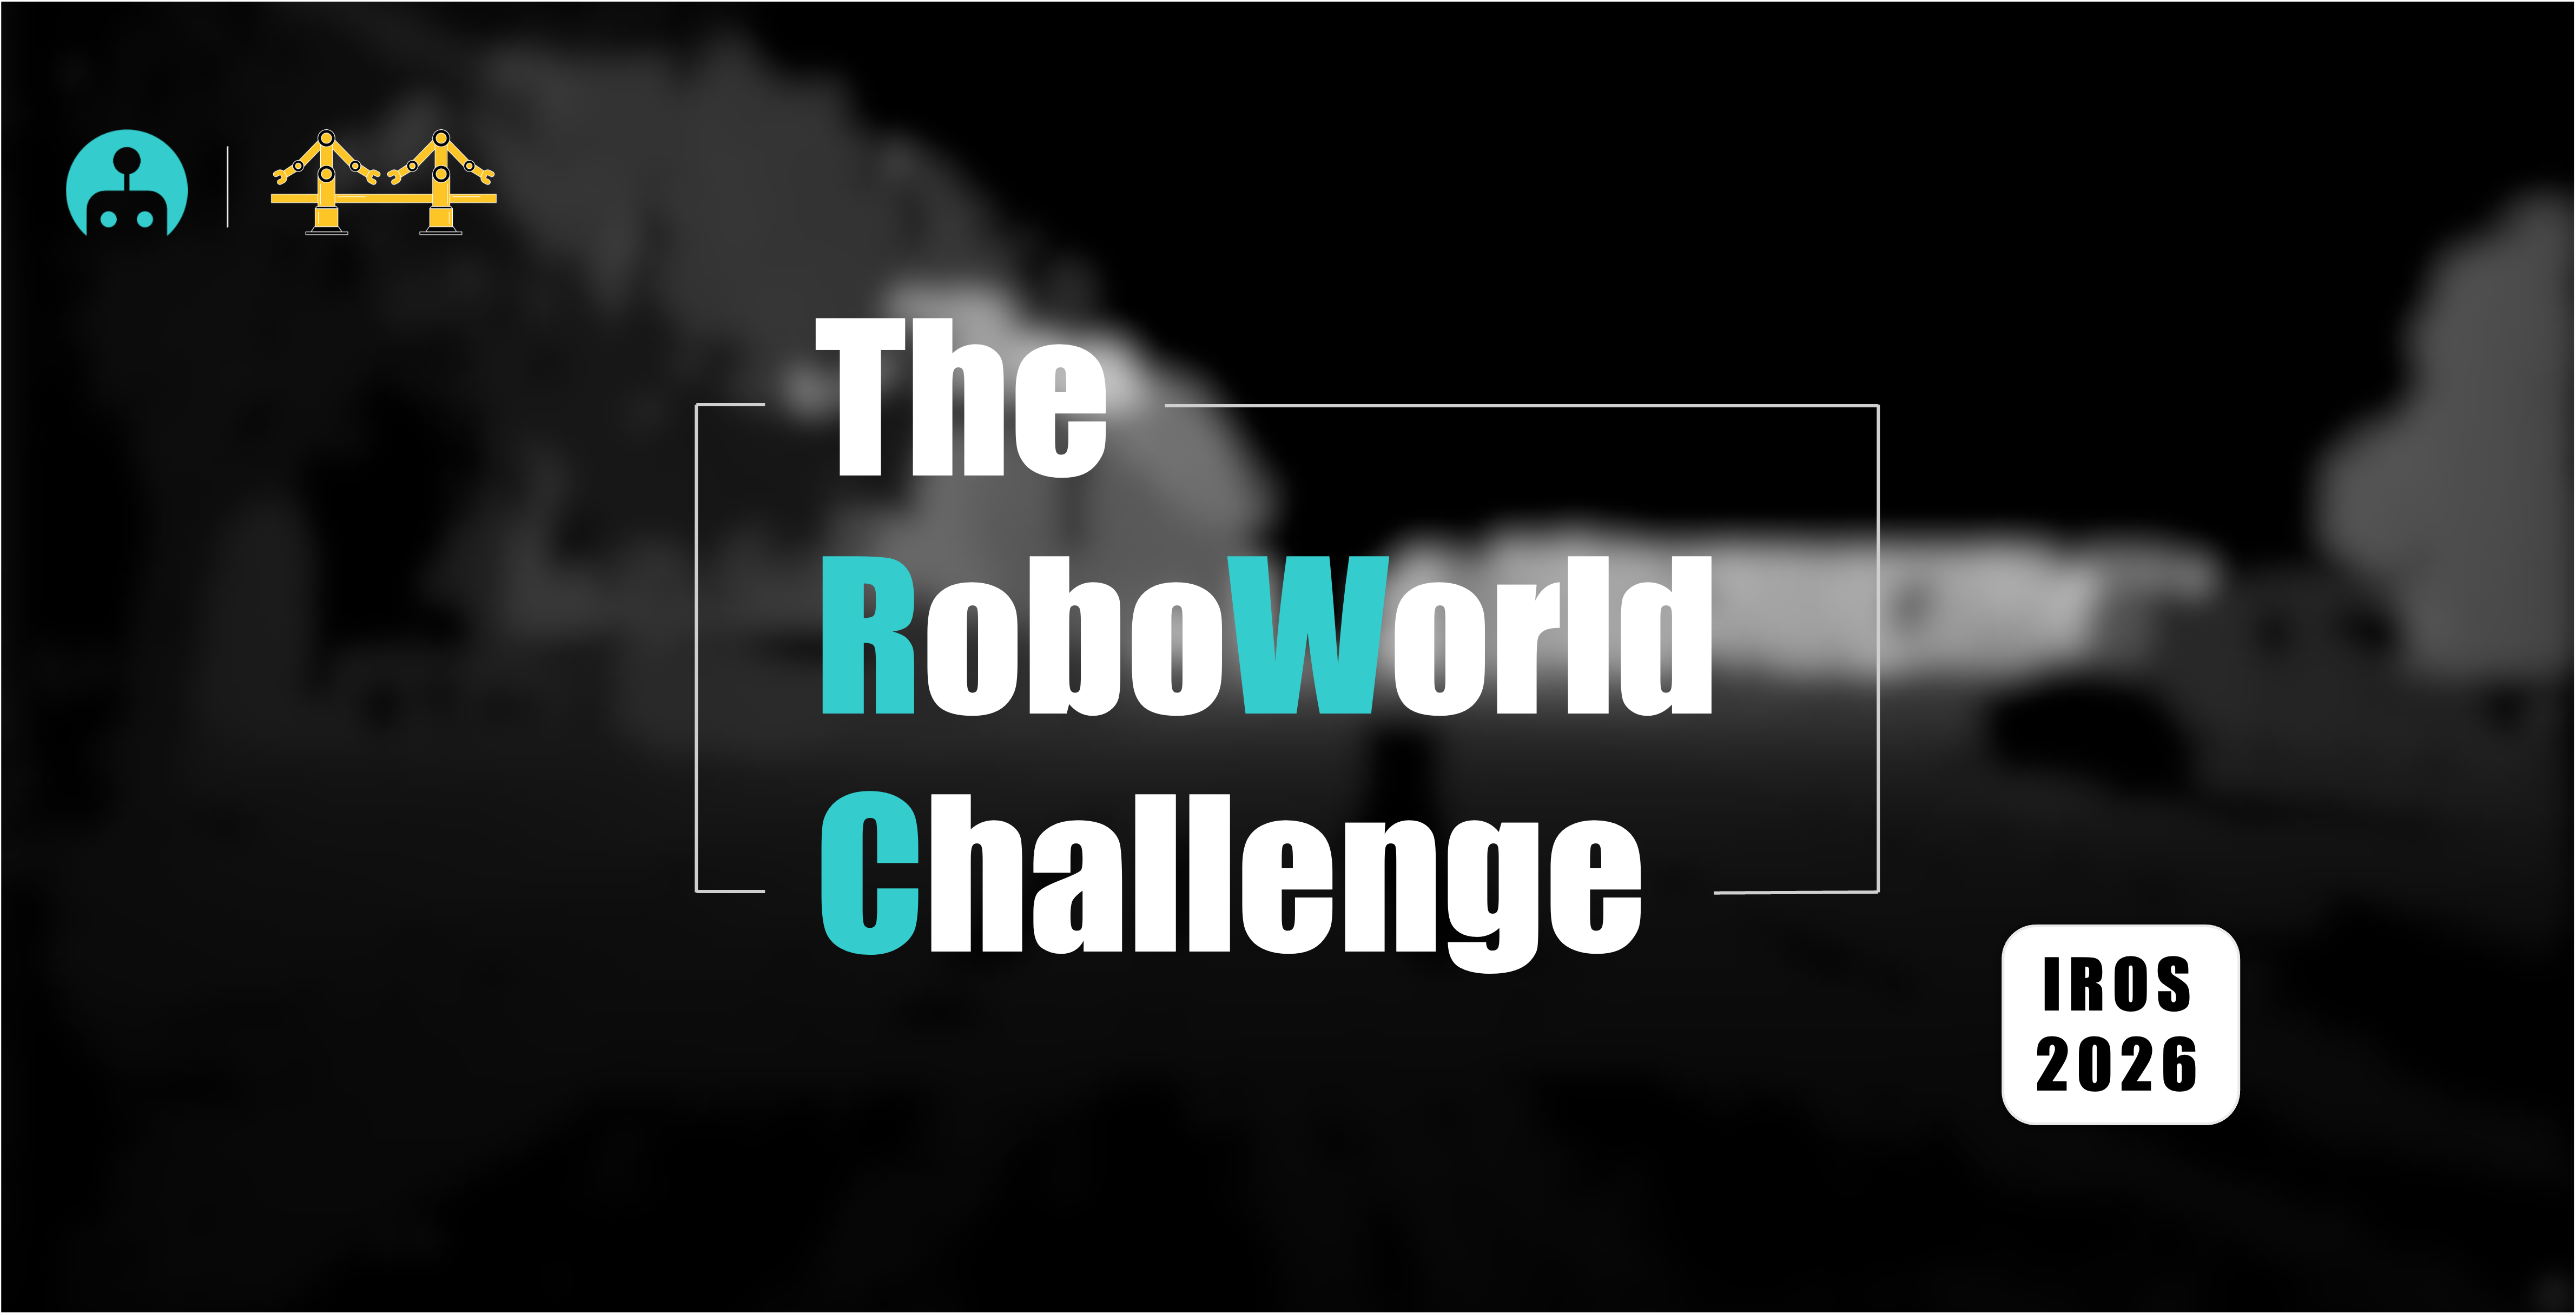
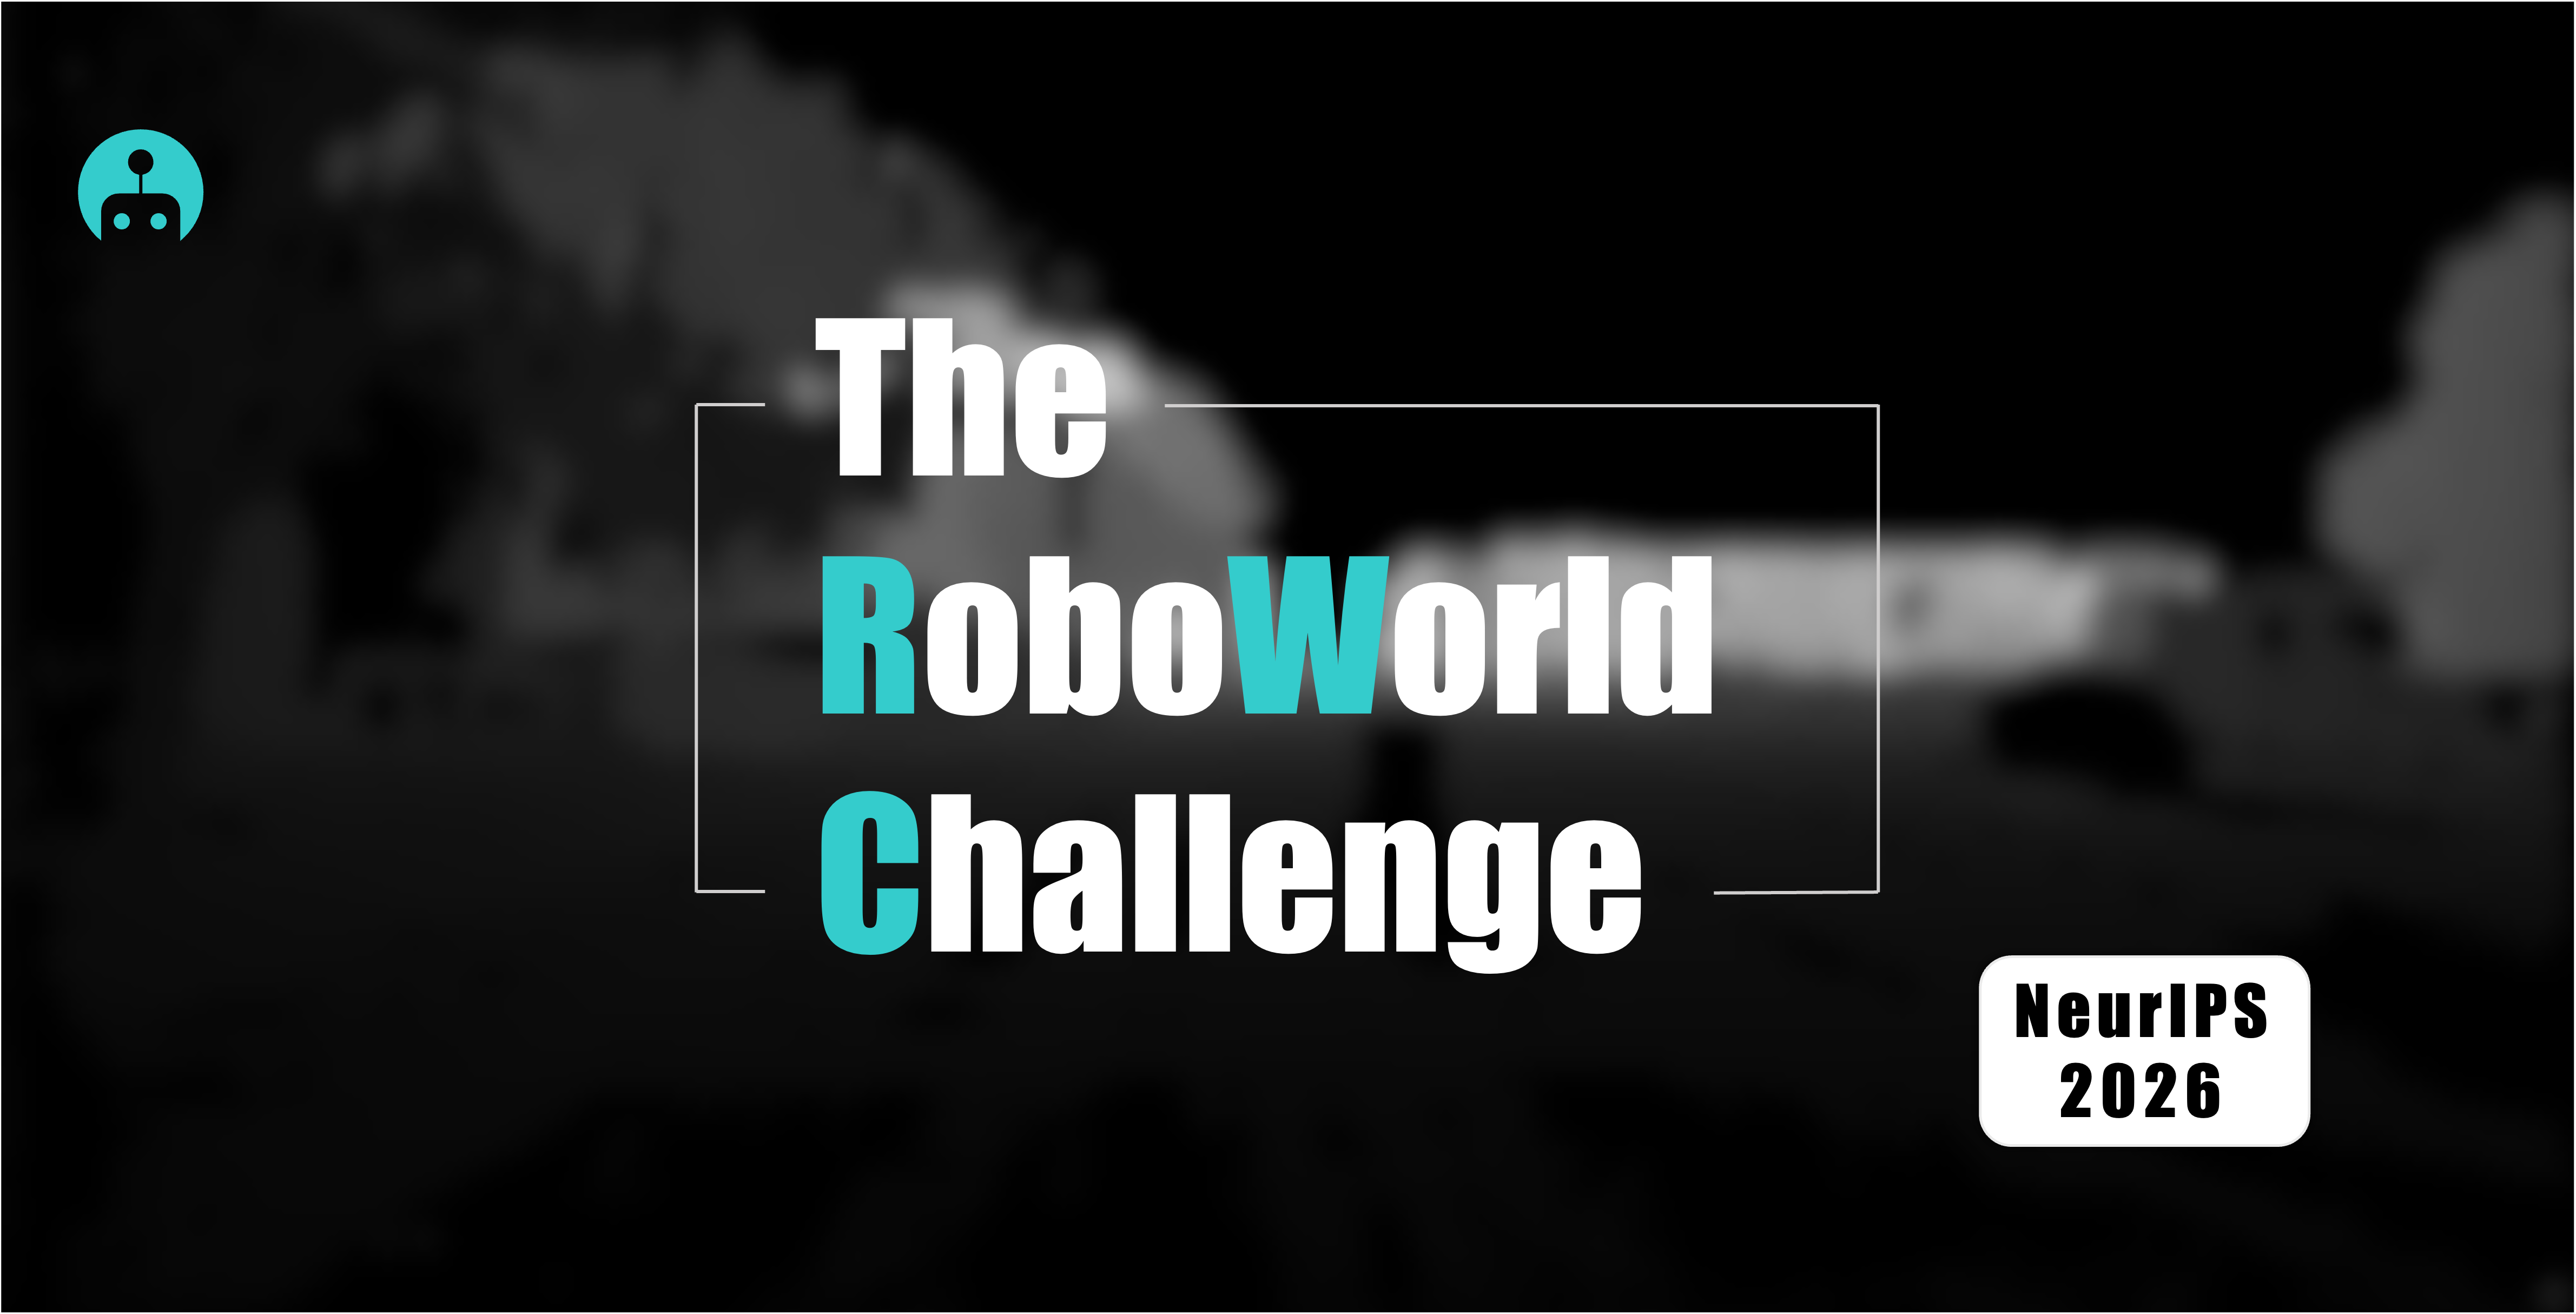
Update website to NeurIPS 2026 affiliation, timeline, and awards

Changed region(s): [[0.7459, 0.6793, 0.9013, 0.8954], [0.0, 0.0926, 0.1865, 0.1853]]

diff --git a/index.html b/index.html
@@ -335,28 +335,17 @@
             <h1 class="text-white" id="venue">Venue</h1>
             <hr/>
 
-            <!-- <img1>
-                <div style="text-align: center;">
-                    <img src="icra2024.png" class="img-fluid" alt="img-responsive" width="20%">
-                </div>
-            </img1> -->
-
-            <p>
-                <img src="iros2026.png" align="right" width="24%" hspace="22" vspace="5">
-            </p>
-
-
             <p class="text-white-50">
-                The RoboWorld Challenge is affiliated with the 2026 IEEE/RSJ International Conference on Intelligent Robots and Systems (IROS 2026).
+                The RoboWorld Challenge is affiliated with the <strong>Thirty-Ninth Annual Conference on Neural Information Processing Systems (NeurIPS 2026)</strong>.
             </p>
 
             <p class="text-white-50">
-                IROS is IEEE Robotics and Automation Society's flagship conference. IROS 2026 will be held from September 27th to October 1st, 2026, in Pittsburgh, PA, USA.
+                NeurIPS is one of the premier conferences in machine learning and artificial intelligence. NeurIPS 2026 will be held in December 2026.
             </p>
 
             <p class="text-white-50">
-                The IROS competitions provide a unique venue for state-of-the-art technical demonstrations from research labs throughout academia and industry.
-                For additional details, kindly refer to the IROS 2026 <a href="https://2026.ieee-iros.org/" target="_blank" style="color: #ffc000;">website</a>.
+                The NeurIPS Competition Track provides a unique venue for benchmark-driven research challenges that advance the state of the art in machine learning, bringing together participants from academia and industry worldwide.
+                For additional details, kindly refer to the NeurIPS 2026 <a href="https://neurips.cc/" target="_blank" style="color: #ffc000;">website</a>.
             </p>
 
 
@@ -439,32 +428,33 @@
 
             <div id="timeline-content">
                 <ul class="timeline">
-                    <li class="event" data-date="&nbsp;&nbsp;&nbsp;Registration">
-                        <h3>Team Up</h3>
+                    <li class="event" data-date="&nbsp;&nbsp;&nbsp;Jul 2026">
+                        <h3>Registration Opens</h3>
                         <p>Register for your team by filling in <a href="https://docs.google.com/forms/d/e/1FAIpQLSdwfvk-NHdQh9-REiBLCjHMcyLT-sPCOCzJU-ux5jbcZLTkBg/viewform?usp=sharing&ouid=111184461807593368933" target="_blank" style="color: #ffc000;">this</a> Google Form.&nbsp;</p>
                     </li>
-                    <li class="event" data-date="May 25, 2026">
-                        <h3>Release of Training and Evaluation Data</h3>
-                        <p>Download the data from the competition toolkit.&nbsp;</p>
+                    <li class="event" data-date="Aug 2026">
+                        <h3>Release of Training Data and Baselines</h3>
+                        <p>Download the data from the competition toolkit. Baseline code and weights released on GitHub.&nbsp;</p>
                     </li>
-                    <li class="event" data-date="June 01, 2026">
+                    <li class="event" data-date="Sep 2026">
                         <h3>Competition Servers Online @ CodaBench</h3>
+                        <p>Public leaderboards live for all five tracks.&nbsp;</p>
                     </li>
-                    <li class="event" id="date" data-date="July 31, 2026">
+                    <li class="event" id="date" data-date="Oct 31, 2026">
                         <h3>Phase One Deadline</h3>
                         <p></p>
                         <p>Shortlisted teams are invited to participate in the next phase.&nbsp;</p>
                     </li>
-                    <li class="event" id="date" data-date="Aug 31, 2026">
+                    <li class="event" id="date" data-date="Nov 20, 2026">
                         <h3>Phase Two Deadline</h3>
                         <p></p>
                         <p>Don't forget to include the code link in your submissions.&nbsp;</p>
                     </li>
-                    <li class="event" data-date="Sep 27, 2026">
+                    <li class="event" data-date="Dec 2026">
 
                         <h3>Award Decision Announcement</h3>
                         <p></p>
-                        <p>Associated with the IROS 2026 conference formality.&nbsp;</p>
+                        <p>Associated with the NeurIPS 2026 Competition Track Workshop.&nbsp;</p>
                     </li>
                 </ul>
             </div>
@@ -482,12 +472,12 @@
                             <h4 class="my-0 fw-normal text-black">1st Place</h4>
                         </div>
                         <div class="card-body bg-black">
-                            <h3>Cash $ 5000 + Certificate</h3>
+                            <h3>Cash $ 7,500 + Certificate</h3>
                             <ul class="list-unstyled mt-3 mb-4">
-                                <li>This award will be given to five awardees; an amount of $ 1000 will be given to each track.</li>
+                                <li>This award will be given to five awardees; an amount of $ 1,500 will be given to each track.</li>
                             </ul>
                         </div>
-                        
+
                     </div>
                 </div>
                 <div class="col">
@@ -496,9 +486,9 @@
                             <h4 class="my-0 fw-normal text-black">2nd Place</h4>
                         </div>
                         <div class="card-body bg-black">
-                            <h3>Cash $ 3000 + Certificate</h3>
+                            <h3>Cash $ 4,000 + Certificate</h3>
                             <ul class="list-unstyled mt-3 mb-4">
-                                <li>This award will be given to five awardees; an amount of $ 600 will be given to each track.</li>
+                                <li>This award will be given to five awardees; an amount of $ 800 will be given to each track.</li>
                             </ul>
                         </div>
                     </div>
@@ -509,9 +499,9 @@
                             <h4 class="my-0 fw-normal text-black">3rd Place</h4>
                         </div>
                         <div class="card-body bg-black">
-                            <h3>Cash $ 2000 + Certificate</h3>
+                            <h3>Cash $ 2,500 + Certificate</h3>
                             <ul class="list-unstyled mt-3 mb-4">
-                                <li>This award will be given to five awardees; an amount of $ 400 will be given to each track.</li>
+                                <li>This award will be given to five awardees; an amount of $ 500 will be given to each track.</li>
                             </ul>
                         </div>
                     </div>
@@ -519,12 +509,12 @@
                 <div class="col">
                     <div class="card mb-4 rounded-3 shadow-sm">
                         <div class="card-header py-3 bg-warning">
-                            <h4 class="my-0 fw-normal text-black">Innovative Award</h4>
+                            <h4 class="my-0 fw-normal text-black">Rising Star Award</h4>
                         </div>
                         <div class="card-body bg-black">
                             <h3>Certificate</h3>
                             <ul class="list-unstyled mt-3 mb-4">
-                                <li>This award will be selected by the program committee and given to ten awardees; two per track.</li>
+                                <li>This award will be given to top first-time competition participants to encourage new community members.</li>
                             </ul>
                         </div>
                     </div>
@@ -544,7 +534,7 @@
                 <div class="row">
                     <div class="col"> <img src="static/logo-image/github.png" class="rounded-circle" width="136">
                         <p></p>
-                        <h4><a href="https://github.com/robosense2025" target="_blank" style="color: #ffc000;">GitHub</a></h4>
+                <h4><a href="https://github.com/worldbench" target="_blank" style="color: #ffc000;">GitHub</a></h4>
                         <p></p>
                     </div>
 
@@ -626,7 +616,7 @@
             </p>
 
             <p class="text-white-50">
-                Kindly refer to <a href="https://robosense2025.github.io/track1" target="_blank" style="color: #ffc000;">this</a> page for more technical details on this track.
+                Kindly refer to <a href="https://roboworld2026.github.io/track1" target="_blank" style="color: #ffc000;">this</a> page for more technical details on this track.
             </p>
 
             <p class="text-white"><strong>Track Organizers</strong></p>
@@ -672,7 +662,7 @@
             </p>
 
             <p class="text-white-50">
-                Kindly refer to <a href="https://robosense2025.github.io/track2" target="_blank" style="color: #ffc000;">this</a> page for more technical details on this track.
+                Kindly refer to <a href="https://roboworld2026.github.io/track2" target="_blank" style="color: #ffc000;">this</a> page for more technical details on this track.
             </p>
 
             <p class="text-white"><strong>Track Organizers</strong></p>
@@ -730,7 +720,7 @@
             </p>
 
             <p class="text-white-50">
-                Kindly refer to <a href="https://robosense2025.github.io/track2" target="_blank" style="color: #ffc000;">this</a> page for more technical details on this track.
+                Kindly refer to <a href="https://roboworld2026.github.io/track2" target="_blank" style="color: #ffc000;">this</a> page for more technical details on this track.
             </p>
 
             <p class="text-white"><strong>Track Organizers</strong></p>
@@ -788,7 +778,7 @@
             </p>
 
             <p class="text-white-50">
-                Kindly refer to <a href="https://robosense2025.github.io/track4" target="_blank" style="color: #ffc000;">this</a> page for more technical details on this track.
+                Kindly refer to <a href="https://roboworld2026.github.io/track4" target="_blank" style="color: #ffc000;">this</a> page for more technical details on this track.
             </p>
 
             <p class="text-white"><strong>Track Organizers</strong></p>
@@ -987,7 +977,7 @@
             <hr>
 
             <p class="text-white-50">
-                Please refer to <a href="https://github.com/robosense2025/toolkit?tab=readme-ov-file#frequently-asked-questions-faqs" target="_blank" style="color: #ffc000;">Frequently Asked Questions</a> for more detailed rules and conditions of this competition.
+                Please refer to <a href="https://github.com/worldbench/toolkit?tab=readme-ov-file#frequently-asked-questions-faqs" target="_blank" style="color: #ffc000;">Frequently Asked Questions</a> for more detailed rules and conditions of this competition.
             </p>
             <br/>
 
@@ -1519,7 +1509,7 @@
 
             <footer class="container p-5">
                 <p class="float-lg-end"><a href="#" style="color: #ffc000;">Back to Top</a></p>
-                <p class="text-white">&copy; The RoboWorld 2026 Organizing Team. All Rights Researved.</p>
+                <p class="text-white">&copy; The RoboWorld 2026 Organizing Team. All Rights Reserved.</p>
             </footer>
         </div>
     </div>